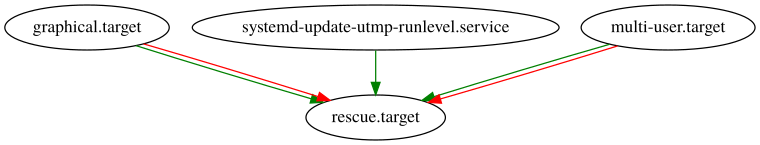
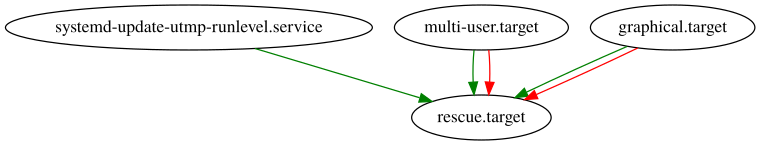
Update Ordres Visuals

diff --git a/ordres_visuals.md b/ordres_visuals.md
@@ -49,7 +49,6 @@ que com podem comprobar, es molt diferent.
 
 ![grafica-rescue](grafiques/grafica-rescue.png)
 
-
 Per ultim, des de **mode 1** he fet un `systemctl isolate emergency.target`
 per anar a parar a **mode emergency** i aquesta es la grafica d'aquest
 target.
@@ -149,14 +148,34 @@ trobat aquests dos parametres que crec que son molt utils:
 
 	![from-rescue](grafiques/from-rescue.png)
 
-	Que com podem observar, després d'engegar `rescue.target`, s'engegarà
-	sysinit.target i rescue.service ja que esta indicat amb la flecheta verda
-	que significa `after` i a part es **requerit** per la fletcha negra.
-	A continuació veiem un Wants `systemd-update-umtp-runlevel.service` que
-	no s'engegarà automaticament pero saps que si vols que estigui engegat,
-	es necessari que `rescue.target` si que ho estigui i per ultim trobem
-	`shutdown.target` amb una fletcha vermella que ens diu que entra en 
-	conflicte, es a dir, si volem engegar `shutdown.target`? No pot estar
-	activat `rescue.target`.
+	Que com podem observar:
+	
+  * Es **requerit**(per la fletcha negra) que després d'engegar `rescue.target`, estigui engegat `sysinit.target` i `rescue.service` (per la fletcha verda).
+  * Vol que estigui engegat el servei `systemd-update-utmp-runlevel.service` (per la fletcha gris).
+  * Si volguem entrar a shutdown.target ens diu que entrarà en conflicte(per la fletcha vermella) amb `shutdown.target`, lo que vol dir es que no poden estar els dos engegats.
 
+* `--to-pattern`
+	
+	Amb aquest parametre, igual que `--from-pattern` podem especificar
+	un unit i veure aquest unit, que necessita per poder engegarse. Per
+	seguir amb el mateix exemple, tornaré a fer-ho amb `rescue.target`.
+	
+	```
+	$ systemd-analyze dot --to-pattern='rescue.target' | dot -Tsvg > to-rescue.svg; inkscape -e to-rescue.png to-rescue.svg
+   Color legend: black     = Requires
+                 dark blue = Requisite
+                 dark grey = Wants
+                 red       = Conflicts
+                 green     = After
+Background RRGGBBAA: ffffff00
+Area 0:0:760:145 exported to 760 x 145 pixels (90 dpi)
+Bitmap saved as: to-rescue.png
+```
+
+	![to-rescue](grafiques/to-rescue.png)
+	
+	Que com podem observar
+  * Te que estar engegat `systemd-update-utmp-runlevel.service` per despres engegar `rescue.target`
+  * Si estem en `multi-user.target` o `graphical.target` entrarà en conflicte amb `rescue.target`, lo que vol dir que no poden estar els dos engegats
+  
 # FALTA METER EL --TO-PATTERN, EXPLICAR COLORES, METER MAS IMAGENES
